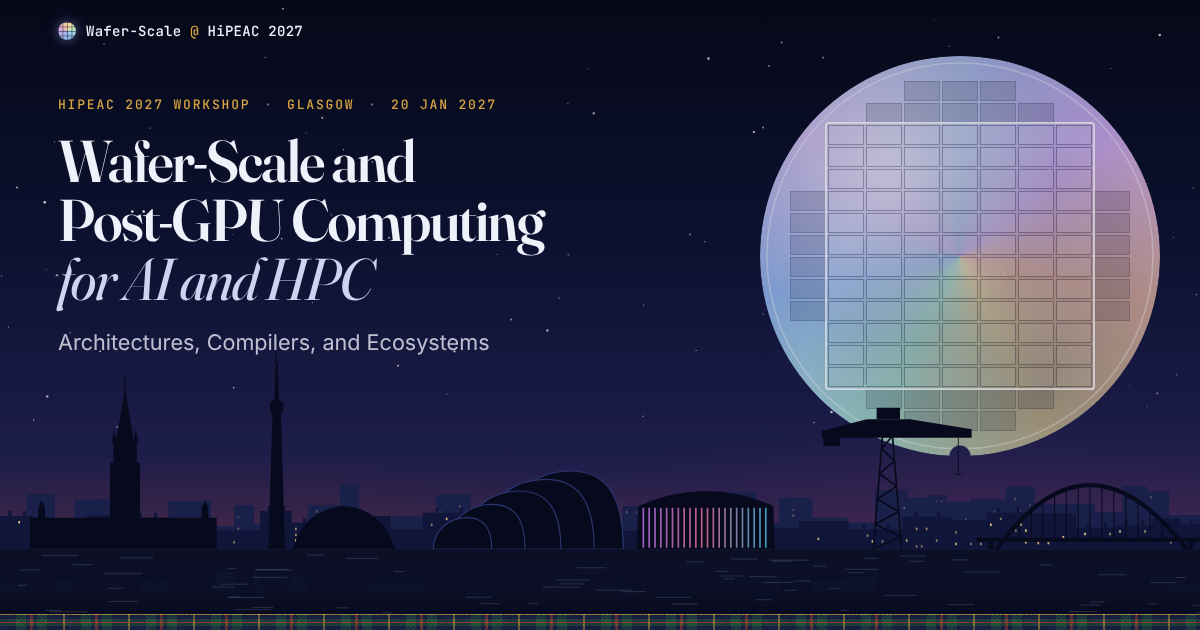
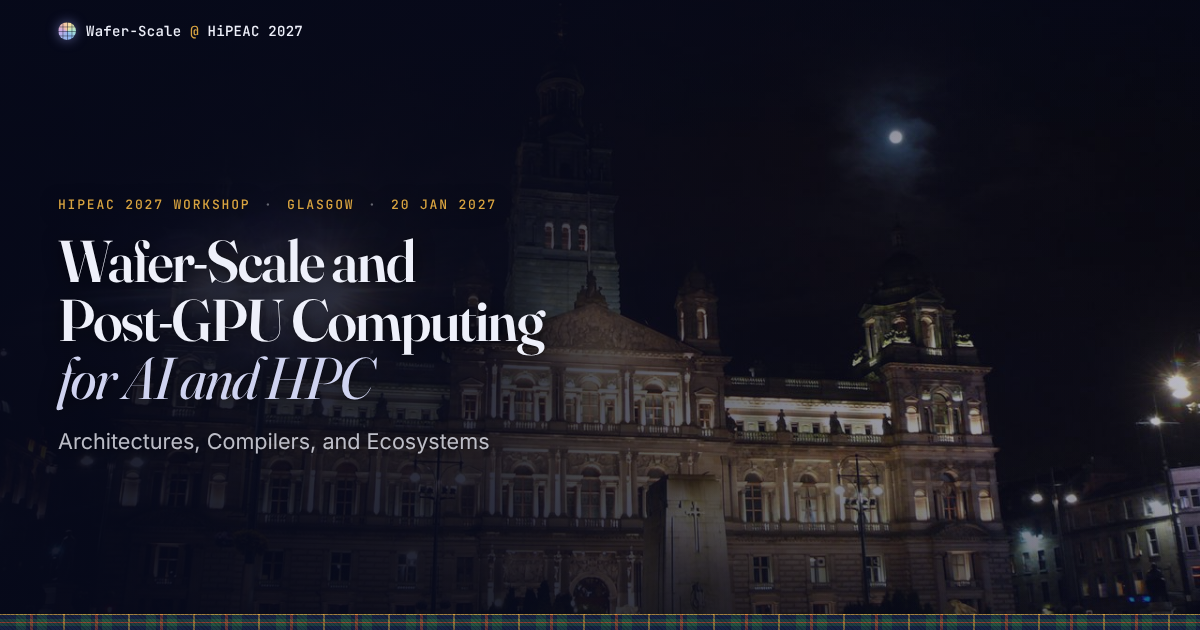
Use George Square at night as the page background
Replace the illustrated skyline, stars and wafer moon with a photo of
the City Chambers on George Square (next to Queen Street station):
'City Chambers' by Thomas Duesing, CC BY 2.0, via Wikimedia Commons,
credited in the footer. Refresh the social preview image.

Claude-Session: https://claude.ai/code/session_01PJFBo2BTsW4RWpZRcSJiX4

diff --git a/index.html b/index.html
@@ -36,75 +36,14 @@
     </symbol>
   </svg>
 
-  <!-- Glasgow at night: fixed backdrop behind the whole page -->
+  <!-- Glasgow backdrop: George Square and the City Chambers at night, next to Queen Street station -->
   <div class="backdrop" aria-hidden="true">
-    <svg class="stars" viewBox="0 0 1440 560" preserveAspectRatio="xMidYMin slice" aria-hidden="true" focusable="false"><circle cx="342.7" cy="283" r="0.8" opacity="0.8" class="tw"/><circle cx="682.6" cy="302" r="1.2" opacity="0.3"/><circle cx="1206" cy="134.9" r="0.7" opacity="0.4"/><circle cx="1032.7" cy="281.3" r="1.2" opacity="0.6"/><circle cx="920.3" cy="78.3" r="1.5" opacity="0.3"/><circle cx="1333.2" cy="202.8" r="0.6" opacity="0.7"/><circle cx="92.2" cy="394.3" r="1.2" opacity="0.3"/><circle cx="1123.3" cy="428.3" r="0.8" opacity="0.6" class="tw"/><circle cx="1035.1" cy="457" r="1.5" opacity="0.8"/><circle cx="614.8" cy="378.6" r="1.2" opacity="0.5"/><circle cx="1347.2" cy="457" r="0.6" opacity="0.3"/><circle cx="712.6" cy="134.2" r="1.5" opacity="0.5"/><circle cx="902.4" cy="156.5" r="1.2" opacity="0.8"/><circle cx="826.6" cy="277.7" r="1" opacity="0.6"/><circle cx="1302.1" cy="354.6" r="0.6" opacity="0.8" class="tw"/><circle cx="1427" cy="349.1" r="0.7" opacity="0.7"/><circle cx="470" cy="281.7" r="1.2" opacity="0.6"/><circle cx="1027.9" cy="109.8" r="1.2" opacity="0.4"/><circle cx="179.2" cy="250.6" r="1.5" opacity="0.9"/><circle cx="127.5" cy="416.3" r="1" opacity="0.8"/><circle cx="29" cy="222.1" r="1" opacity="0.8"/><circle cx="63.6" cy="319.6" r="0.6" opacity="0.5" class="tw"/><circle cx="844.4" cy="286.4" r="0.8" opacity="0.6"/><circle cx="1437.9" cy="161" r="0.6" opacity="0.3"/><circle cx="771.2" cy="493.4" r="1" opacity="0.4"/><circle cx="379.3" cy="358.7" r="0.8" opacity="0.5"/><circle cx="1380.5" cy="466.3" r="1" opacity="0.5"/><circle cx="1252.6" cy="200.8" r="1.2" opacity="0.7"/><circle cx="147.7" cy="505.9" r="1.2" opacity="0.4" class="tw"/><circle cx="913.4" cy="372.1" r="0.8" opacity="0.5"/><circle cx="371.9" cy="157.6" r="0.8" opacity="0.3"/><circle cx="597.9" cy="301.6" r="0.6" opacity="0.5"/><circle cx="848.5" cy="69.3" r="1.5" opacity="0.7"/><circle cx="671.4" cy="353.2" r="0.8" opacity="0.6"/><circle cx="401.7" cy="254.5" r="1.2" opacity="0.3"/><circle cx="973.5" cy="500.9" r="0.8" opacity="0.7" class="tw"/><circle cx="430" cy="312.8" r="0.7" opacity="0.5"/><circle cx="450.2" cy="192" r="1.2" opacity="0.4"/><circle cx="1133.7" cy="54.5" r="0.6" opacity="0.9"/><circle cx="984.6" cy="68.3" r="1.2" opacity="0.4"/><circle cx="1157.5" cy="124.1" r="0.7" opacity="0.7"/><circle cx="935.3" cy="50.5" r="1.2" opacity="0.5"/><circle cx="480.6" cy="433.4" r="1" opacity="0.8" class="tw"/><circle cx="1383.4" cy="41.6" r="1.5" opacity="0.7"/><circle cx="1274.3" cy="234.6" r="0.7" opacity="0.8"/><circle cx="48.8" cy="497.9" r="0.8" opacity="0.8"/><circle cx="1207.4" cy="95.5" r="0.8" opacity="0.5"/><circle cx="1192.2" cy="44.5" r="1.2" opacity="0.5"/><circle cx="186.8" cy="151.8" r="0.8" opacity="0.6"/><circle cx="913.2" cy="151" r="1.2" opacity="0.5" class="tw"/><circle cx="1325.7" cy="81.1" r="0.6" opacity="0.6"/><circle cx="1198.9" cy="323.8" r="1.2" opacity="0.5"/><circle cx="1368.2" cy="482.2" r="0.7" opacity="0.3"/><circle cx="657.6" cy="391.8" r="1.5" opacity="0.6"/><circle cx="416.2" cy="177.4" r="0.7" opacity="0.8"/><circle cx="1235.5" cy="504.9" r="0.6" opacity="0.8"/><circle cx="64.9" cy="469.9" r="1.5" opacity="0.6" class="tw"/><circle cx="285.8" cy="459.5" r="1" opacity="0.6"/><circle cx="18.9" cy="387.6" r="0.7" opacity="0.6"/><circle cx="344.2" cy="10.3" r="1.2" opacity="0.5"/><circle cx="1352.2" cy="318.3" r="0.8" opacity="0.3"/><circle cx="1399.7" cy="281.3" r="0.6" opacity="0.5"/><circle cx="284.2" cy="278" r="0.6" opacity="0.4"/><circle cx="1140" cy="479.3" r="0.7" opacity="0.8" class="tw"/><circle cx="10.8" cy="326.9" r="1" opacity="0.3"/><circle cx="390.8" cy="139.7" r="1.2" opacity="0.6"/><circle cx="73.4" cy="168" r="0.6" opacity="0.8"/><circle cx="1116.4" cy="24" r="0.6" opacity="0.3"/><circle cx="1403.6" cy="444.3" r="0.6" opacity="0.6"/><circle cx="705.6" cy="81.7" r="0.6" opacity="0.5"/><circle cx="931.6" cy="305" r="0.8" opacity="0.4" class="tw"/><circle cx="1422.8" cy="222.9" r="0.7" opacity="0.6"/><circle cx="1031.1" cy="197.7" r="0.6" opacity="0.6"/><circle cx="61.9" cy="239.6" r="1.5" opacity="0.8"/><circle cx="547.6" cy="416.6" r="1.2" opacity="0.8"/><circle cx="76.4" cy="326.3" r="1.5" opacity="0.5"/><circle cx="1368.4" cy="217.5" r="0.6" opacity="0.4"/><circle cx="771.6" cy="361.5" r="0.6" opacity="0.8" class="tw"/><circle cx="323.2" cy="67.8" r="0.6" opacity="0.9"/><circle cx="538.9" cy="466.9" r="0.8" opacity="0.3"/><circle cx="994.4" cy="488.3" r="1.5" opacity="0.7"/><circle cx="1277.8" cy="412.1" r="1.5" opacity="0.3"/><circle cx="458.5" cy="276.6" r="1.2" opacity="0.7"/><circle cx="681.9" cy="122.7" r="1" opacity="0.3"/><circle cx="132.2" cy="51.6" r="1" opacity="0.4" class="tw"/><circle cx="33.8" cy="437.6" r="0.6" opacity="0.3"/><circle cx="165.7" cy="250.6" r="1.5" opacity="0.9"/><circle cx="833.9" cy="415.3" r="0.6" opacity="0.9"/><circle cx="811.6" cy="275.1" r="0.7" opacity="0.3"/><circle cx="1078.5" cy="486" r="0.6" opacity="0.6"/></svg>
-    <svg class="skyline" viewBox="0 0 1440 330" preserveAspectRatio="xMidYMax slice" aria-hidden="true" focusable="false">
-  <defs>
-    <linearGradient id="water" x1="0" y1="0" x2="0" y2="1">
-      <stop offset="0" stop-color="#151b3f"/><stop offset="1" stop-color="#070a1a"/>
-    </linearGradient>
-    <linearGradient id="hydroGlow" x1="0" y1="0" x2="1" y2="0">
-      <stop offset="0" stop-color="#c77dff"/><stop offset=".5" stop-color="#ff7aa8"/><stop offset="1" stop-color="#4cc9f0"/>
-    </linearGradient>
-    <linearGradient id="reflFade" x1="0" y1="0" x2="0" y2="1">
-      <stop offset="0" stop-color="#fff" stop-opacity=".42"/><stop offset=".75" stop-color="#fff" stop-opacity="0"/>
-    </linearGradient>
-    <mask id="reflMask" maskUnits="userSpaceOnUse" x="0" y="250" width="1440" height="80">
-      <rect x="0" y="250" width="1440" height="80" fill="url(#reflFade)"/>
-    </mask>
-    <clipPath id="hydroClip"><use href="#hydro"/></clipPath>
-    <pattern id="ripple" width="40" height="5" patternUnits="userSpaceOnUse">
-      <rect width="40" height="2.2" fill="#0b0f26"/>
-    </pattern>
-  </defs>
-  <g id="city">
-    <path class="far" d="M0 250 V215 H32 V183 H66 V220 H89 V190 H137 V201 H162 V221 H202 V192 H253 V222 H281 V197 H305 V220 H340 V219 H369 V197 H408 V172 H431 V217 H471 V210 H523 V184 H565 V221 H605 V187 H645 V221 H679 V222 H708 V216 H747 V198 H778 V190 H804 V188 H829 V189 H860 V181 H908 V218 H935 V188 H975 V212 H1017 V218 H1050 V179 H1089 V188 H1113 V185 H1136 V193 H1164 V190 H1207 V175 H1242 V195 H1274 V195 H1314 V205 H1347 V174 H1376 V180 H1403 V209 H1440 V250 Z"/>
-    <g class="win far-win"><rect x="129" y="210" width="2" height="3" opacity="0.6"/><rect x="117" y="231" width="2" height="3" opacity="0.5"/><rect x="129" y="238" width="2" height="3" opacity="0.5"/><rect x="141" y="207" width="2" height="3" opacity="0.3"/><rect x="141" y="221" width="2" height="3" opacity="0.5"/><rect x="166" y="234" width="2" height="3" opacity="0.5"/><rect x="196" y="234" width="2" height="3" opacity="0.3"/><rect x="166" y="241" width="2" height="3" opacity="0.3"/><rect x="178" y="241" width="2" height="3" opacity="0.6"/><rect x="184" y="241" width="2" height="3" opacity="0.4"/><rect x="285" y="210" width="2" height="3" opacity="0.3"/><rect x="285" y="224" width="2" height="3" opacity="0.6"/><rect x="291" y="231" width="2" height="3" opacity="0.5"/><rect x="315" y="233" width="2" height="3" opacity="0.3"/><rect x="379" y="203" width="2" height="3" opacity="0.5"/><rect x="397" y="203" width="2" height="3" opacity="0.5"/><rect x="397" y="210" width="2" height="3" opacity="0.3"/><rect x="373" y="217" width="2" height="3" opacity="0.4"/><rect x="397" y="217" width="2" height="3" opacity="0.6"/><rect x="418" y="206" width="2" height="3" opacity="0.5"/><rect x="418" y="220" width="2" height="3" opacity="0.5"/><rect x="424" y="227" width="2" height="3" opacity="0.3"/><rect x="459" y="237" width="2" height="3" opacity="0.5"/><rect x="551" y="197" width="2" height="3" opacity="0.5"/><rect x="527" y="204" width="2" height="3" opacity="0.4"/><rect x="533" y="211" width="2" height="3" opacity="0.5"/><rect x="551" y="218" width="2" height="3" opacity="0.5"/><rect x="633" y="193" width="2" height="3" opacity="0.6"/><rect x="649" y="227" width="2" height="3" opacity="0.3"/><rect x="661" y="227" width="2" height="3" opacity="0.5"/><rect x="673" y="241" width="2" height="3" opacity="0.4"/><rect x="701" y="235" width="2" height="3" opacity="0.4"/><rect x="689" y="242" width="2" height="3" opacity="0.3"/><rect x="730" y="229" width="2" height="3" opacity="0.4"/><rect x="742" y="229" width="2" height="3" opacity="0.4"/><rect x="751" y="204" width="2" height="3" opacity="0.5"/><rect x="763" y="204" width="2" height="3" opacity="0.3"/><rect x="808" y="194" width="2" height="3" opacity="0.3"/><rect x="814" y="194" width="2" height="3" opacity="0.5"/><rect x="820" y="201" width="2" height="3" opacity="0.5"/><rect x="814" y="222" width="2" height="3" opacity="0.5"/><rect x="820" y="243" width="2" height="3" opacity="0.6"/><rect x="894" y="194" width="2" height="3" opacity="0.3"/><rect x="888" y="201" width="2" height="3" opacity="0.3"/><rect x="888" y="208" width="2" height="3" opacity="0.5"/><rect x="900" y="215" width="2" height="3" opacity="0.5"/><rect x="876" y="222" width="2" height="3" opacity="0.4"/><rect x="882" y="222" width="2" height="3" opacity="0.6"/><rect x="888" y="222" width="2" height="3" opacity="0.5"/><rect x="894" y="229" width="2" height="3" opacity="0.4"/><rect x="888" y="243" width="2" height="3" opacity="0.5"/><rect x="912" y="224" width="2" height="3" opacity="0.5"/><rect x="924" y="245" width="2" height="3" opacity="0.3"/><rect x="951" y="201" width="2" height="3" opacity="0.4"/><rect x="951" y="208" width="2" height="3" opacity="0.6"/><rect x="969" y="222" width="2" height="3" opacity="0.6"/><rect x="1003" y="218" width="2" height="3" opacity="0.6"/><rect x="979" y="232" width="2" height="3" opacity="0.4"/><rect x="1009" y="232" width="2" height="3" opacity="0.3"/><rect x="1033" y="224" width="2" height="3" opacity="0.3"/><rect x="1084" y="199" width="2" height="3" opacity="0.6"/><rect x="1066" y="241" width="2" height="3" opacity="0.4"/><rect x="1078" y="241" width="2" height="3" opacity="0.3"/><rect x="1093" y="215" width="2" height="3" opacity="0.5"/><rect x="1093" y="222" width="2" height="3" opacity="0.3"/><rect x="1105" y="229" width="2" height="3" opacity="0.5"/><rect x="1123" y="191" width="2" height="3" opacity="0.3"/><rect x="1129" y="191" width="2" height="3" opacity="0.3"/><rect x="1123" y="226" width="2" height="3" opacity="0.5"/><rect x="1158" y="213" width="2" height="3" opacity="0.5"/><rect x="1192" y="203" width="2" height="3" opacity="0.3"/><rect x="1174" y="217" width="2" height="3" opacity="0.3"/><rect x="1168" y="224" width="2" height="3" opacity="0.3"/><rect x="1180" y="224" width="2" height="3" opacity="0.3"/><rect x="1186" y="224" width="2" height="3" opacity="0.5"/><rect x="1186" y="238" width="2" height="3" opacity="0.6"/><rect x="1217" y="188" width="2" height="3" opacity="0.5"/><rect x="1235" y="195" width="2" height="3" opacity="0.4"/><rect x="1223" y="202" width="2" height="3" opacity="0.4"/><rect x="1217" y="216" width="2" height="3" opacity="0.4"/><rect x="1264" y="222" width="2" height="3" opacity="0.5"/><rect x="1302" y="229" width="2" height="3" opacity="0.5"/><rect x="1296" y="236" width="2" height="3" opacity="0.3"/><rect x="1308" y="236" width="2" height="3" opacity="0.3"/><rect x="1330" y="232" width="2" height="3" opacity="0.6"/><rect x="1336" y="239" width="2" height="3" opacity="0.5"/><rect x="1369" y="194" width="2" height="3" opacity="0.5"/><rect x="1357" y="222" width="2" height="3" opacity="0.3"/><rect x="1380" y="186" width="2" height="3" opacity="0.5"/></g>
-    <path class="mid" d="M0 250 V210 H9.8 V204 h4 V210 H27.3 V204 h4 V210 H39 V218 H104 V209 H156 V212 H166.2 V206 h4 V212 H184.7 V206 h4 V212 H197 V224 H252 V227 H312 V204 H321.5 V198 h4 V204 H338.6 V198 h4 V204 H350 V218 H363.5 V212 h4 V218 H387.8 V212 h4 V218 H404 V210 H469 V226 H507 V206 H523 V200 h4 V206 H551.8 V200 h4 V206 H571 V205 H608 V207 H678 V206 H691 V200 h4 V206 H714.4 V200 h4 V206 H730 V228 H786 V223 H800 V217 h4 V223 H825.2 V217 h4 V223 H842 V227 H858.2 V221 h4 V227 H887.5 V221 h4 V227 H907 V224 H959 V216 H1018 V226 H1034.2 V220 h4 V226 H1063.5 V220 h4 V226 H1083 V211 H1097.8 V205 h4 V211 H1124.3 V205 h4 V211 H1142 V215 H1184 V206 H1196.8 V200 h4 V206 H1219.7 V200 h4 V206 H1235 V207 H1291 V224 H1303 V218 h4 V224 H1324.6 V218 h4 V224 H1339 V221 H1349.8 V215 h4 V221 H1369.1 V215 h4 V221 H1382 V213 H1416 V220 H1427.2 V214 h4 V220 H1447.5 V214 h4 V220 H1440 V250 Z"/>
-    <g class="win mid-win"><rect x="22" y="216" width="2" height="3" opacity="0.9"/><rect x="43" y="224" width="2" height="3" opacity="0.5"/><rect x="67" y="224" width="2" height="3" opacity="0.7"/><rect x="43" y="231" width="2" height="3" opacity="0.8"/><rect x="91" y="231" width="2" height="3" opacity="0.6"/><rect x="55" y="245" width="2" height="3" opacity="0.9"/><rect x="97" y="245" width="2" height="3" opacity="0.9"/><rect x="120" y="215" width="2" height="3" opacity="0.7"/><rect x="114" y="222" width="2" height="3" opacity="0.5"/><rect x="120" y="229" width="2" height="3" opacity="0.9"/><rect x="108" y="236" width="2" height="3" opacity="0.5"/><rect x="126" y="243" width="2" height="3" opacity="0.8"/><rect x="172" y="218" width="2" height="3" opacity="0.7"/><rect x="160" y="225" width="2" height="3" opacity="0.8"/><rect x="225" y="230" width="2" height="3" opacity="0.5"/><rect x="231" y="230" width="2" height="3" opacity="0.9"/><rect x="280" y="240" width="2" height="3" opacity="0.5"/><rect x="354" y="224" width="2" height="3" opacity="0.6"/><rect x="378" y="224" width="2" height="3" opacity="0.6"/><rect x="354" y="231" width="2" height="3" opacity="0.6"/><rect x="354" y="238" width="2" height="3" opacity="0.9"/><rect x="378" y="245" width="2" height="3" opacity="0.6"/><rect x="384" y="245" width="2" height="3" opacity="0.6"/><rect x="396" y="245" width="2" height="3" opacity="0.6"/><rect x="444" y="216" width="2" height="3" opacity="0.7"/><rect x="432" y="223" width="2" height="3" opacity="0.5"/><rect x="432" y="230" width="2" height="3" opacity="0.6"/><rect x="444" y="230" width="2" height="3" opacity="0.9"/><rect x="444" y="237" width="2" height="3" opacity="0.7"/><rect x="450" y="237" width="2" height="3" opacity="0.9"/><rect x="438" y="244" width="2" height="3" opacity="0.5"/><rect x="535" y="212" width="2" height="3" opacity="0.8"/><rect x="517" y="219" width="2" height="3" opacity="0.5"/><rect x="547" y="226" width="2" height="3" opacity="0.7"/><rect x="587" y="225" width="2" height="3" opacity="0.7"/><rect x="642" y="213" width="2" height="3" opacity="0.8"/><rect x="630" y="220" width="2" height="3" opacity="0.7"/><rect x="672" y="220" width="2" height="3" opacity="0.8"/><rect x="642" y="227" width="2" height="3" opacity="0.6"/><rect x="648" y="234" width="2" height="3" opacity="0.9"/><rect x="666" y="234" width="2" height="3" opacity="0.8"/><rect x="630" y="241" width="2" height="3" opacity="0.9"/><rect x="688" y="212" width="2" height="3" opacity="0.5"/><rect x="682" y="226" width="2" height="3" opacity="0.8"/><rect x="706" y="226" width="2" height="3" opacity="0.9"/><rect x="712" y="226" width="2" height="3" opacity="0.6"/><rect x="712" y="240" width="2" height="3" opacity="0.5"/><rect x="776" y="234" width="2" height="3" opacity="0.9"/><rect x="740" y="241" width="2" height="3" opacity="0.9"/><rect x="776" y="241" width="2" height="3" opacity="0.5"/><rect x="796" y="229" width="2" height="3" opacity="0.6"/><rect x="802" y="229" width="2" height="3" opacity="0.5"/><rect x="820" y="229" width="2" height="3" opacity="0.9"/><rect x="790" y="236" width="2" height="3" opacity="0.7"/><rect x="876" y="233" width="2" height="3" opacity="0.6"/><rect x="894" y="240" width="2" height="3" opacity="0.5"/><rect x="923" y="244" width="2" height="3" opacity="0.9"/><rect x="981" y="236" width="2" height="3" opacity="0.8"/><rect x="1040" y="232" width="2" height="3" opacity="0.6"/><rect x="1046" y="239" width="2" height="3" opacity="0.8"/><rect x="1058" y="239" width="2" height="3" opacity="0.5"/><rect x="1099" y="224" width="2" height="3" opacity="0.6"/><rect x="1111" y="224" width="2" height="3" opacity="0.6"/><rect x="1087" y="238" width="2" height="3" opacity="0.7"/><rect x="1123" y="238" width="2" height="3" opacity="0.5"/><rect x="1099" y="245" width="2" height="3" opacity="0.5"/><rect x="1105" y="245" width="2" height="3" opacity="0.5"/><rect x="1146" y="228" width="2" height="3" opacity="0.5"/><rect x="1146" y="242" width="2" height="3" opacity="0.8"/><rect x="1164" y="242" width="2" height="3" opacity="0.5"/><rect x="1176" y="242" width="2" height="3" opacity="0.6"/><rect x="1200" y="212" width="2" height="3" opacity="0.5"/><rect x="1188" y="219" width="2" height="3" opacity="0.9"/><rect x="1224" y="219" width="2" height="3" opacity="0.8"/><rect x="1212" y="226" width="2" height="3" opacity="0.9"/><rect x="1218" y="226" width="2" height="3" opacity="0.5"/><rect x="1230" y="226" width="2" height="3" opacity="0.9"/><rect x="1230" y="240" width="2" height="3" opacity="0.9"/><rect x="1275" y="234" width="2" height="3" opacity="0.9"/><rect x="1245" y="241" width="2" height="3" opacity="0.8"/><rect x="1257" y="241" width="2" height="3" opacity="0.8"/><rect x="1301" y="230" width="2" height="3" opacity="0.9"/><rect x="1331" y="230" width="2" height="3" opacity="0.6"/><rect x="1343" y="227" width="2" height="3" opacity="0.8"/><rect x="1373" y="227" width="2" height="3" opacity="0.6"/><rect x="1404" y="240" width="2" height="3" opacity="0.6"/></g>
-    <g class="fg">
-      <path d="M36 250 V212 h10 v-12 l4 -9 l4 9 v12 H132 V146 h36 V212 H242 v-12 l4 -9 l4 9 v12 h10 V250 Z"/>
-      <path d="M136 146 V122 h28 V146 Z M134 122 l3 -16 l3 16 Z M160 122 l3 -16 l3 16 Z M139 122 L150 58 L161 122 Z"/>
-      <path d="M150 58 V44" stroke-width="1.6" fill="none"/>
-      <path d="M322 250 L327 86 H337 L342 250 Z M324 86 v-12 q8 -7 16 0 v12 Z M329 74 L331 26 h2 L335 74 Z"/>
-      <path d="M331 26 V12" stroke-width="1.2" fill="none"/>
-      <path d="M352 250 Q362 204 412 198 Q458 200 474 250 Z"/>
-      <path class="shell" d="M596 250 C596 188.9 641.6 156 684.2 156 C726.7 156 748 184.2 748 250 Z"/>
-      <path class="shell" d="M573 250 C573 195.4 615 166 654.2 166 C693.4 166 713 191.2 713 250 Z"/>
-      <path class="shell" d="M553 250 C553 204.5 589 180 622.6 180 C656.2 180 673 201 673 250 Z"/>
-      <path class="shell" d="M535 250 C535 214.9 563.5 196 590.1 196 C616.7 196 630 212.2 630 250 Z"/>
-      <path class="shell" d="M520 250 C520 225.3 541 212 560.6 212 C580.2 212 590 223.4 590 250 Z"/>
-      <path id="hydro" d="M764 250 L766 198 Q847 162 928 198 L930 250 Z"/>
-      <path d="M1048 250 L1059 114 H1071 L1082 250 Z" class="ghost"/>
-      <path d="M1048 250 L1059 114 M1082 250 L1071 114 M1048 250 L1080.8 234.9 M1080.8 234.9 L1050.4 219.8 M1050.4 219.8 L1078.3 204.7 M1078.3 204.7 L1052.9 189.6 M1052.9 189.6 L1075.9 174.4 M1075.9 174.4 L1055.3 159.3 M1055.3 159.3 L1073.4 144.2 M1073.4 144.2 L1057.8 129.1 M1057.8 129.1 L1071 114" class="lattice"/>
-      <path d="M986 116 V108 L1040 94 H1092 L1166 106 V116 Z"/>
-      <path d="M1052 94 V80 H1080 V94 Z M988 116 h20 v10 h-20 Z"/>
-      <path d="M1150 116 V160 M1146 160 h8" stroke-width="1" fill="none"/>
-      <path d="M1172 236 H1440 V241 H1172 Z"/>
-      <path d="M1186 250 V241 h6 V250 Z M1426 250 V241 h6 V250 Z"/>
-      <path d="M1223.6 216.3 V236 M1237.5 203.1 V236 M1251.5 192.2 V236 M1265.5 183.8 V236 M1279.6 177.8 V236 M1293.8 174.2 V236 M1308 173 V236 M1322.3 174.2 V236 M1336.6 177.8 V236 M1351 183.8 V236 M1365.5 192.2 V236 M1380 203.1 V236 M1394.6 216.3 V236" class="hanger"/>
-      <path d="M1196 250 Q1306 96 1424 250" class="arch"/>
-    </g>
-    <path class="hydro-ribs" clip-path="url(#hydroClip)" d="M772 200 V248 M779 200 V248 M786 200 V248 M793 200 V248 M800 200 V248 M807 200 V248 M814 200 V248 M821 200 V248 M828 200 V248 M835 200 V248 M842 200 V248 M849 200 V248 M856 200 V248 M863 200 V248 M870 200 V248 M877 200 V248 M884 200 V248 M891 200 V248 M898 200 V248 M905 200 V248 M912 200 V248 M919 200 V248"/>
-  </g>
-  <rect x="0" y="250" width="1440" height="80" fill="url(#water)"/>
-  <g mask="url(#reflMask)"><use href="#city" transform="matrix(1 0 0 -1 0 500)"/></g>
-  <rect x="0" y="250" width="1440" height="80" fill="url(#ripple)" opacity=".55"/>
-  <path class="shimmer" d="M651.4 295.2 h43.1 M670.5 291.5 h30.3 M265.9 291.8 h31.9 M1141.9 262.6 h19.5 M130.6 312.7 h34.4 M60.3 324.8 h44.7 M941.6 299.1 h14 M21.6 293 h10.3 M273.9 272.9 h9.1 M668.1 286.8 h40 M747.5 300.8 h27 M953.9 288 h18.6 M1436.6 325.7 h39.9 M1019.2 278.1 h16.7 M416.2 260.9 h37.1 M576.6 315.3 h22.7 M1379.6 315.3 h8 M302 319.7 h25.9 M1411.7 283.8 h10.8 M906.4 310.5 h18.3 M125.5 279.3 h44.6 M1091.6 264.3 h17.4 M145.5 260.2 h38.3 M255.9 295.2 h25 M274.6 307.2 h13 M926.9 264.2 h24 M306.5 274.9 h44.9 M1156.9 277.3 h41.6 M303.4 283.6 h40.5 M924.2 263 h45.6 M307.1 274.1 h37.4 M473.7 276.7 h10.8 M129.8 296.8 h17.2 M865.8 282 h25.2 M1381.2 289.9 h29.8 M1247.8 268.8 h13.9 M1308.1 313.2 h17.5 M273.3 307.8 h43.7 M283.1 322.5 h41.5 M869.1 285.5 h11.9 M55.7 323.4 h17.1 M1014.6 274 h39.3 M858.9 276.5 h14.7 M1037.3 260.8 h16.7 M805.5 315.7 h31.3 M403.5 320.2 h15.8 M23.9 274.8 h24.9 M87.1 268.3 h22 M823.9 265.2 h21.8 M1283 324.6 h33 M995.4 296.9 h13.3 M50.5 257.3 h42.6 M1009.4 323.4 h8.8 M916.1 289.8 h35.8 M459.2 326 h10.9 M786.4 307.6 h42.2 M1061.4 305.3 h38.1 M1317.6 280.6 h34 M1297.2 317 h23.9 M1138.4 316.4 h29.8 M899.9 282.8 h30.1 M876.8 261.6 h32.3 M1430.4 317.6 h35.7 M559.3 307.5 h30.1 M634.4 314.7 h11.2 M1080.3 258.1 h30.8 M692.6 272.1 h34.5 M716 299 h43 M368.4 256.8 h19.4 M976.5 270.2 h14.4"/>
-</svg>
+    <img class="backdrop-photo" src="assets/george-square-2560.jpg"
+         srcset="assets/george-square-1280.jpg 1280w, assets/george-square-2560.jpg 2560w" sizes="100vw" alt="">
+    <div class="backdrop-shade"></div>
   </div>
 
   <header class="hero" id="top">
-    <div class="wafer" aria-hidden="true">
-      <svg class="wafer-grid" viewBox="-100 -100 200 200" aria-hidden="true" focusable="false">
-  <g class="dies-edge"><rect x="-84.7" y="-32.3" width="17.4" height="9.6"/><rect x="-84.7" y="-21.3" width="17.4" height="9.6"/><rect x="-84.7" y="-10.3" width="17.4" height="9.6"/><rect x="-84.7" y="0.7" width="17.4" height="9.6"/><rect x="-84.7" y="11.7" width="17.4" height="9.6"/><rect x="-84.7" y="22.7" width="17.4" height="9.6"/><rect x="-46.7" y="-76.3" width="17.4" height="9.6"/><rect x="-46.7" y="66.7" width="17.4" height="9.6"/><rect x="-27.7" y="-87.3" width="17.4" height="9.6"/><rect x="-27.7" y="-76.3" width="17.4" height="9.6"/><rect x="-27.7" y="66.7" width="17.4" height="9.6"/><rect x="-27.7" y="77.7" width="17.4" height="9.6"/><rect x="-8.7" y="-87.3" width="17.4" height="9.6"/><rect x="-8.7" y="-76.3" width="17.4" height="9.6"/><rect x="-8.7" y="66.7" width="17.4" height="9.6"/><rect x="-8.7" y="77.7" width="17.4" height="9.6"/><rect x="10.3" y="-87.3" width="17.4" height="9.6"/><rect x="10.3" y="-76.3" width="17.4" height="9.6"/><rect x="10.3" y="66.7" width="17.4" height="9.6"/><rect x="10.3" y="77.7" width="17.4" height="9.6"/><rect x="29.3" y="-76.3" width="17.4" height="9.6"/><rect x="29.3" y="66.7" width="17.4" height="9.6"/><rect x="67.3" y="-32.3" width="17.4" height="9.6"/><rect x="67.3" y="-21.3" width="17.4" height="9.6"/><rect x="67.3" y="-10.3" width="17.4" height="9.6"/><rect x="67.3" y="0.7" width="17.4" height="9.6"/><rect x="67.3" y="11.7" width="17.4" height="9.6"/><rect x="67.3" y="22.7" width="17.4" height="9.6"/></g>
-  <g class="dies-core"><rect x="-65.7" y="-65.3" width="17.4" height="9.6"/><rect x="-65.7" y="-54.3" width="17.4" height="9.6"/><rect x="-65.7" y="-43.3" width="17.4" height="9.6"/><rect x="-65.7" y="-32.3" width="17.4" height="9.6"/><rect x="-65.7" y="-21.3" width="17.4" height="9.6"/><rect x="-65.7" y="-10.3" width="17.4" height="9.6"/><rect x="-65.7" y="0.7" width="17.4" height="9.6"/><rect x="-65.7" y="11.7" width="17.4" height="9.6"/><rect x="-65.7" y="22.7" width="17.4" height="9.6"/><rect x="-65.7" y="33.7" width="17.4" height="9.6"/><rect x="-65.7" y="44.7" width="17.4" height="9.6"/><rect x="-65.7" y="55.7" width="17.4" height="9.6"/><rect x="-46.7" y="-65.3" width="17.4" height="9.6"/><rect x="-46.7" y="-54.3" width="17.4" height="9.6"/><rect x="-46.7" y="-43.3" width="17.4" height="9.6"/><rect x="-46.7" y="-32.3" width="17.4" height="9.6"/><rect x="-46.7" y="-21.3" width="17.4" height="9.6"/><rect x="-46.7" y="-10.3" width="17.4" height="9.6"/><rect x="-46.7" y="0.7" width="17.4" height="9.6"/><rect x="-46.7" y="11.7" width="17.4" height="9.6"/><rect x="-46.7" y="22.7" width="17.4" height="9.6"/><rect x="-46.7" y="33.7" width="17.4" height="9.6"/><rect x="-46.7" y="44.7" width="17.4" height="9.6"/><rect x="-46.7" y="55.7" width="17.4" height="9.6"/><rect x="-27.7" y="-65.3" width="17.4" height="9.6"/><rect x="-27.7" y="-54.3" width="17.4" height="9.6"/><rect x="-27.7" y="-43.3" width="17.4" height="9.6"/><rect x="-27.7" y="-32.3" width="17.4" height="9.6"/><rect x="-27.7" y="-21.3" width="17.4" height="9.6"/><rect x="-27.7" y="-10.3" width="17.4" height="9.6"/><rect x="-27.7" y="0.7" width="17.4" height="9.6"/><rect x="-27.7" y="11.7" width="17.4" height="9.6"/><rect x="-27.7" y="22.7" width="17.4" height="9.6"/><rect x="-27.7" y="33.7" width="17.4" height="9.6"/><rect x="-27.7" y="44.7" width="17.4" height="9.6"/><rect x="-27.7" y="55.7" width="17.4" height="9.6"/><rect x="-8.7" y="-65.3" width="17.4" height="9.6"/><rect x="-8.7" y="-54.3" width="17.4" height="9.6"/><rect x="-8.7" y="-43.3" width="17.4" height="9.6"/><rect x="-8.7" y="-32.3" width="17.4" height="9.6"/><rect x="-8.7" y="-21.3" width="17.4" height="9.6"/><rect x="-8.7" y="-10.3" width="17.4" height="9.6"/><rect x="-8.7" y="0.7" width="17.4" height="9.6"/><rect x="-8.7" y="11.7" width="17.4" height="9.6"/><rect x="-8.7" y="22.7" width="17.4" height="9.6"/><rect x="-8.7" y="33.7" width="17.4" height="9.6"/><rect x="-8.7" y="44.7" width="17.4" height="9.6"/><rect x="-8.7" y="55.7" width="17.4" height="9.6"/><rect x="10.3" y="-65.3" width="17.4" height="9.6"/><rect x="10.3" y="-54.3" width="17.4" height="9.6"/><rect x="10.3" y="-43.3" width="17.4" height="9.6"/><rect x="10.3" y="-32.3" width="17.4" height="9.6"/><rect x="10.3" y="-21.3" width="17.4" height="9.6"/><rect x="10.3" y="-10.3" width="17.4" height="9.6"/><rect x="10.3" y="0.7" width="17.4" height="9.6"/><rect x="10.3" y="11.7" width="17.4" height="9.6"/><rect x="10.3" y="22.7" width="17.4" height="9.6"/><rect x="10.3" y="33.7" width="17.4" height="9.6"/><rect x="10.3" y="44.7" width="17.4" height="9.6"/><rect x="10.3" y="55.7" width="17.4" height="9.6"/><rect x="29.3" y="-65.3" width="17.4" height="9.6"/><rect x="29.3" y="-54.3" width="17.4" height="9.6"/><rect x="29.3" y="-43.3" width="17.4" height="9.6"/><rect x="29.3" y="-32.3" width="17.4" height="9.6"/><rect x="29.3" y="-21.3" width="17.4" height="9.6"/><rect x="29.3" y="-10.3" width="17.4" height="9.6"/><rect x="29.3" y="0.7" width="17.4" height="9.6"/><rect x="29.3" y="11.7" width="17.4" height="9.6"/><rect x="29.3" y="22.7" width="17.4" height="9.6"/><rect x="29.3" y="33.7" width="17.4" height="9.6"/><rect x="29.3" y="44.7" width="17.4" height="9.6"/><rect x="29.3" y="55.7" width="17.4" height="9.6"/><rect x="48.3" y="-65.3" width="17.4" height="9.6"/><rect x="48.3" y="-54.3" width="17.4" height="9.6"/><rect x="48.3" y="-43.3" width="17.4" height="9.6"/><rect x="48.3" y="-32.3" width="17.4" height="9.6"/><rect x="48.3" y="-21.3" width="17.4" height="9.6"/><rect x="48.3" y="-10.3" width="17.4" height="9.6"/><rect x="48.3" y="0.7" width="17.4" height="9.6"/><rect x="48.3" y="11.7" width="17.4" height="9.6"/><rect x="48.3" y="22.7" width="17.4" height="9.6"/><rect x="48.3" y="33.7" width="17.4" height="9.6"/><rect x="48.3" y="44.7" width="17.4" height="9.6"/><rect x="48.3" y="55.7" width="17.4" height="9.6"/></g>
-  <rect class="wse" x="-67" y="-66.6" width="134" height="133.2" rx="1.5"/>
-  <circle class="rim" r="96.5"/>
-</svg>
-    </div>
-
     <nav class="nav wrap" aria-label="Main">
       <a class="brand" href="#top">
         <span class="brand-mark" aria-hidden="true"></span>
@@ -338,6 +277,7 @@
       <p><span class="brand-mark" aria-hidden="true"></span> Wafer-Scale and Post-GPU Computing for AI and HPC · HiPEAC 2027</p>
       <p class="motto"><svg class="motto-rose" aria-hidden="true"><use href="#rose"/></svg>Let Glasgow Flourish</p>
     </div>
+    <p class="wrap credit">Background photo: <a href="https://commons.wikimedia.org/wiki/File:City_Chambers_(457005456).jpg" target="_blank" rel="noopener">“City Chambers”</a> (George Square) by Thomas Duesing, <a href="https://creativecommons.org/licenses/by/2.0/" target="_blank" rel="noopener">CC BY 2.0</a>, via Wikimedia Commons (resized, darkened).</p>
   </footer>
 </body>
 </html>

diff --git a/style.css b/style.css
@@ -56,43 +56,21 @@ ul { list-style: none; margin: 0; padding: 0; }
 }
 .backdrop {
   position: fixed; inset: 0; z-index: -1; overflow: hidden; pointer-events: none;
-  background:
-    radial-gradient(120% 60% at 20% 108%, rgba(180, 67, 47, .45), transparent 60%),
-    radial-gradient(90% 50% at 85% 100%, rgba(194, 69, 107, .28), transparent 65%),
-    linear-gradient(180deg, #060918 0%, #0c1130 38%, #1d1d4a 72%, #3b2650 100%);
+  background: #0a0e22;
 }
-.stars { position: absolute; inset: 0 0 auto 0; width: 100%; height: 75%; fill: #fff; }
-.stars .tw { animation: twinkle 4s ease-in-out infinite; }
-.stars .tw:nth-child(2n) { animation-delay: -1.7s; animation-duration: 5.5s; }
-@keyframes twinkle { 50% { opacity: .1; } }
+.backdrop-photo {
+  position: absolute; inset: 0; width: 100%; height: 100%;
+  object-fit: cover; object-position: 50% 38%;
+  filter: saturate(1.05);
+}
+.backdrop-shade {
+  position: absolute; inset: 0;
+  background:
+    linear-gradient(90deg, rgba(6, 9, 26, .9) 0%, rgba(6, 9, 26, .78) 42%, rgba(6, 9, 26, .34) 70%, rgba(6, 9, 26, .14) 100%),
+    linear-gradient(180deg, rgba(6, 9, 26, .55) 0%, rgba(6, 9, 26, 0) 22%, rgba(6, 9, 26, 0) 70%, rgba(6, 9, 26, .5) 100%),
+    linear-gradient(0deg, rgba(40, 30, 80, .18), rgba(40, 30, 80, .18));
+}
 
-/* wafer "moon" */
-@property --spin { syntax: "<angle>"; inherits: false; initial-value: 0deg; }
-.wafer {
-  position: absolute;
-  z-index: -1;
-  width: clamp(300px, 36vw, 500px);
-  aspect-ratio: 1;
-  right: max(-80px, calc(50% - 680px));
-  top: clamp(76px, 10vh, 120px);
-  border-radius: 50%;
-  background:
-    radial-gradient(circle at 32% 28%, rgba(255, 255, 255, .55), transparent 42%),
-    radial-gradient(circle at 70% 80%, rgba(10, 14, 34, .35), transparent 55%),
-    conic-gradient(from var(--spin), #93a9e0, #c6a3ea, #f0b9a6, #f1dca0, #a3e0cd, #8bb3ee, #b7a1e6, #93a9e0);
-  -webkit-mask: radial-gradient(circle at 50% 100%, transparent 2.2%, #000 2.5%);
-          mask: radial-gradient(circle at 50% 100%, transparent 2.2%, #000 2.5%);
-  box-shadow: 0 0 0 1px rgba(255,255,255,.1);
-  filter: drop-shadow(0 0 70px rgba(160, 170, 255, .35)) saturate(.9);
-  opacity: .86;
-  animation: spin 40s linear infinite;
-}
-@keyframes spin { to { --spin: 360deg; } }
-.wafer-grid { width: 100%; height: 100%; display: block; }
-.wafer-grid .dies-edge rect { fill: rgba(12, 16, 40, .14); stroke: rgba(12, 16, 40, .32); stroke-width: .35; }
-.wafer-grid .dies-core rect { fill: rgba(255, 255, 255, .10); stroke: rgba(12, 16, 40, .42); stroke-width: .35; }
-.wafer-grid .wse { fill: none; stroke: rgba(255, 255, 255, .85); stroke-width: .9; }
-.wafer-grid .rim { fill: none; stroke: rgba(255, 255, 255, .35); stroke-width: .8; }
 
 /* nav */
 .nav {
@@ -120,7 +98,7 @@ ul { list-style: none; margin: 0; padding: 0; }
   flex: 1;
   display: flex; flex-direction: column; justify-content: center;
   padding-top: 4vh;
-  padding-bottom: calc(clamp(170px, 22vw, 300px) + 40px);
+  padding-bottom: clamp(96px, 16vh, 180px);
 }
 .kicker {
   font: 500 13px/1.4 var(--mono); letter-spacing: .14em; text-transform: uppercase;
@@ -164,25 +142,6 @@ ul { list-style: none; margin: 0; padding: 0; }
 .btn-ghost { color: #fff; border: 1px solid rgba(255,255,255,.3); }
 .btn-ghost:hover { background: rgba(255,255,255,.08); }
 
-/* skyline */
-.skyline {
-  position: absolute; left: 0; right: 0; bottom: 0;
-  width: 100%; height: clamp(170px, 22vw, 300px);
-  display: block;
-}
-.skyline .far { fill: #19204a; }
-.skyline .mid { fill: #10153a; }
-.skyline .win { fill: #ffd98a; }
-.skyline .far-win { opacity: .55; }
-.skyline .fg { fill: #070a1c; stroke: #070a1c; stroke-width: 0; }
-.skyline .fg [stroke-width] { stroke: #070a1c; }
-.skyline .shell { stroke: #2c3670; stroke-width: 1.4; }
-.skyline .ghost { fill: none; }
-.skyline .lattice { fill: none; stroke: #070a1c; stroke-width: 2; stroke-linejoin: round; }
-.skyline .hanger { fill: none; stroke: #070a1c; stroke-width: 1.2; }
-.skyline .arch { fill: none; stroke: #070a1c; stroke-width: 5; stroke-linecap: round; }
-.skyline .hydro-ribs { fill: none; stroke: url(#hydroGlow); stroke-width: 2; opacity: .75; }
-.skyline .shimmer { fill: none; stroke: #b9c4ff; stroke-width: 1; opacity: .22; stroke-linecap: round; }
 
 /* tartan band */
 .tartan {
@@ -199,7 +158,11 @@ ul { list-style: none; margin: 0; padding: 0; }
 }
 
 /* ---------- sections ---------- */
-.section { padding: clamp(72px, 10vw, 120px) 0; background: rgba(9, 12, 30, .5); }
+.section {
+  padding: clamp(72px, 10vw, 120px) 0;
+  background: rgba(9, 12, 30, .48);
+  -webkit-backdrop-filter: blur(2.5px); backdrop-filter: blur(2.5px);
+}
 .section-alt { background: rgba(14, 18, 44, .56); }
 .label {
   display: inline-flex; align-items: center; gap: 10px;
@@ -380,14 +343,12 @@ h2 em { font-style: italic; font-weight: 400; color: var(--sandstone); }
   .speakers { grid-template-columns: repeat(2, 1fr); }
   .about, .venue-inner { grid-template-columns: 1fr; }
   .org-grid { grid-template-columns: 1fr; }
-  .wafer { opacity: .55; }
 }
 @media (max-width: 720px) {
   body { font-size: 16px; }
   .wrap { padding: 0 16px; }
   .nav ul li:not(:nth-child(2)) { display: none; }
   .format, .speakers { grid-template-columns: 1fr; }
-  .wafer { width: 260px; right: -90px; top: 56px; opacity: .4; }
   .tbd { flex-direction: column; align-items: flex-start; }
   .map-lbl { font-size: 15px; }
   .map-lbl.area, .map-lbl.park-lbl { font-size: 13px; }
@@ -397,6 +358,16 @@ h2 em { font-style: italic; font-weight: 400; color: var(--sandstone); }
 
 @media (prefers-reduced-motion: reduce) {
   html { scroll-behavior: auto; }
-  .wafer, .stars .tw, .pulse { animation: none; }
+  .pulse { animation: none; }
   .btn, .speaker { transition: none; }
 }
+
+.credit { margin-top: 14px; font-size: .78rem; color: rgba(238,240,250,.45); }
+.credit a { color: rgba(238,240,250,.65); }
+@media (max-width: 720px) {
+  .backdrop-photo { object-position: 47% 40%; }
+  .backdrop-shade {
+    background: linear-gradient(180deg, rgba(6, 9, 26, .78) 0%, rgba(6, 9, 26, .5) 48%, rgba(6, 9, 26, .35) 70%, rgba(6, 9, 26, .7) 100%);
+  }
+}
+.hero .kicker, .hero h1, .hero .subtitle { text-shadow: 0 2px 18px rgba(0, 0, 0, .65), 0 0 2px rgba(0, 0, 0, .4); }
